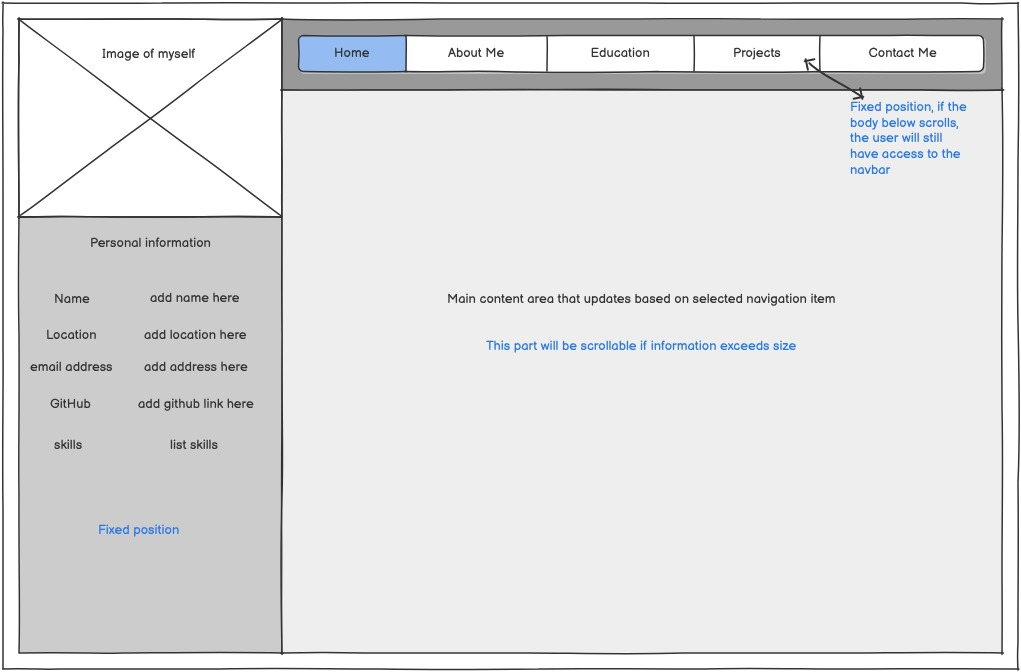
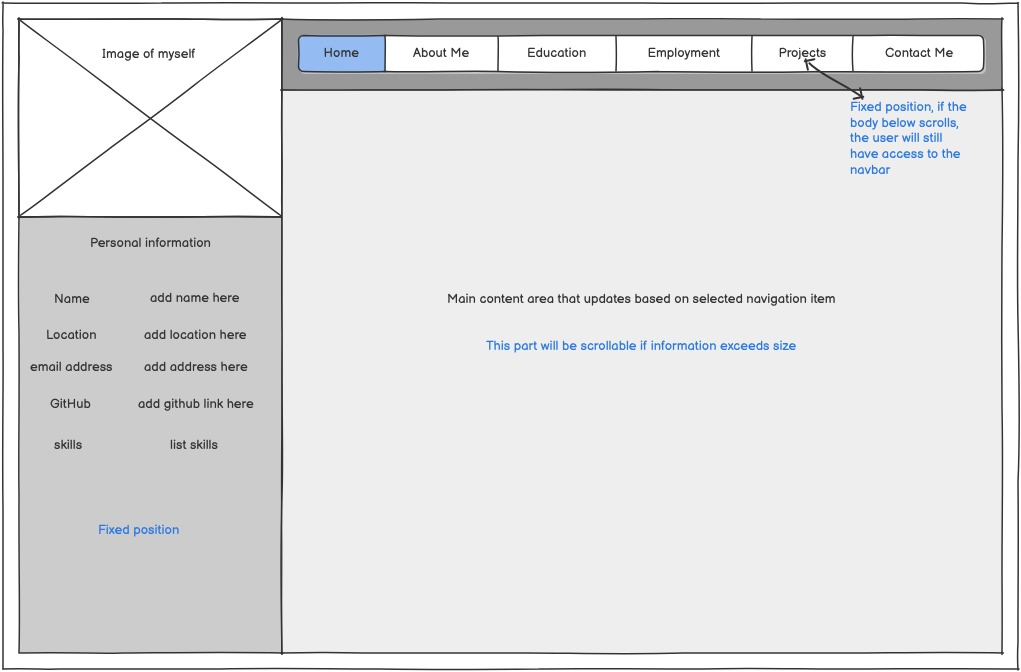
Add page structure to Homepage, update desktop wireframe and create missing html file

Changed region(s): [[0.3036, 0.0312, 0.8198, 0.125], [0.8501, 0.0625, 0.9412, 0.0938]]

diff --git a/index.html b/index.html
@@ -3,7 +3,112 @@
   <head>
     <meta charset="UTF-8" />
     <meta name="viewport" content="width=device-width, initial-scale=1.0" />
-    <title>Document</title>
+    <title>Personal Portfolio | Home</title>
+
+    <!-- Bootstrap CSS -->
+    <link
+      href="https://cdn.jsdelivr.net/npm/bootstrap@5.3.8/dist/css/bootstrap.min.css"
+      rel="stylesheet"
+      integrity="sha384-sRIl4kxILFvY47J16cr9ZwB07vP4J8+LH7qKQnuqkuIAvNWLzeN8tE5YBujZqJLB"
+      crossorigin="anonymous"
+    />
+
+    <!-- Custom CSS -->
+    <link rel="stylesheet" href="assets/css/style.css" />
   </head>
-  <body></body>
+
+  <body>
+    <div class="container-fluid">
+      <div class="row min-vh-100">
+        <!-- Sidebar -->
+        <div
+          class="col-lg-3 col-md-4 d-none d-md-block bg-light position-fixed h-100 p-3"
+        >
+          <div class="text-center mb-4">
+            <!-- Image for sidebar -->
+            <div class="bg-secondary rounded mb-3" style="height: 150px"></div>
+            <h5>Jack Cook</h5>
+            <p class="text-muted mb-1">Junior Software Developer</p>
+            <p class="text-muted">Dudley, West Midlands, England</p>
+          </div>
+
+          <ul class="list-unstyled">
+            <li><strong>Email:</strong> darthcookienomnom@gmail.com</li>
+            <li>
+              <strong>GitHub:</strong>
+              <a href="https://github.com/DarthCookie45" target="_blank"
+                >github.com/DarthCookie45</a
+              >
+            </li>
+          </ul>
+        </div>
+
+        <!-- Main Content Area -->
+        <main class="col-lg-9 col-md-8 ms-auto p-0">
+          <!-- Top Navigation -->
+          <nav class="navbar bg-dark fixed-top">
+            <ul class="nav w-100 justify-content-around">
+              <li class="nav-item">
+                <a class="nav-link active" href="index.html">
+                  <i class="fa-solid fa-house d-md-none"></i>
+                  <span class="d-none d-md-inline">Home</span>
+                </a>
+                </li>
+                <li class="nav-item">
+                  <a class="nav-link" href="about.html">
+                  <i class="fa-solid fa-user d-md-none"></i>
+                  <span class="d-none d-md-inline">About Me</span>
+                </a>
+                </li>
+                  <li class="nav-item">
+                    <a class="nav-link" href="education.html">
+                      <i class="fa-solid fa-graduation-cap d-md-none"></i>
+                      <span class="d-none d-md-inline">Education</span>
+                    </a>
+                  </li>
+                  <li class="nav-item">
+                    <a class="nav-link" href="employment.html">
+                      <i class="fa-regular fa-building"></i>
+                      <span class="d-none d-md-inline">Employment</span>
+                    </a>
+                  </li>
+                  <li class="nav-item">
+                    <a class="nav-link" href="projects.html">
+                      <i class="fa-regular fa-lightbulb"></i>
+                      <span class="d-none d-md-inline">Projects</span>
+                    </a>
+                  </li>
+                  <li class="nav-item">
+                    <a class="nav-link" href="contact.html">
+                      <i class="fa-solid fa-envelope d-md-none"></i>
+                      <span class="d-none d-md-inline">Contact Me</span>
+                    </a>
+                  </li>
+                </ul>
+              </div>
+            </div>
+          </nav>
+
+          <!-- Page Content -->
+          <section class="p-4">
+            <h1 class="mb-3">Homepage</h1>
+            <p>placeholder text</p>
+          </section>
+        </main>
+      </div>
+    </div>
+
+    <!-- Bootstrap JS -->
+    <script
+      src="https://cdn.jsdelivr.net/npm/bootstrap@5.3.8/dist/js/bootstrap.bundle.min.js"
+      integrity="sha384-FKyoEForCGlyvwx9Hj09JcYn3nv7wiPVlz7YYwJrWVcXK/BmnVDxM+D2scQbITxI"
+      crossorigin="anonymous"
+    ></script>
+
+    <!-- Font Awesome -->
+    <script
+      src="https://kit.fontawesome.com/aa9af45995.js"
+      crossorigin="anonymous"
+    ></script>
+  </body>
 </html>
